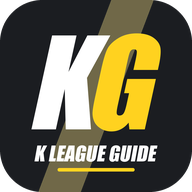
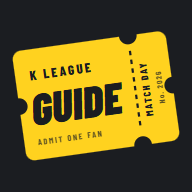
새 로고: 매치데이 티켓 — 헤더·파비콘·앱 아이콘
- 헤더의 공식 K리그 엠블럼 이미지를 자체 로고(BrandMark, 티켓 + KG)로 교체
- 앱 아이콘은 기울인 티켓(K LEAGUE GUIDE · ADMIT ONE FAN · MATCH DAY), 파비콘은 티켓 + KG
- 아이콘 생성 스크립트 scripts/make-brand-icons.mjs

diff --git a/src/App.tsx b/src/App.tsx
@@ -1,4 +1,5 @@
 import {useEffect,useState,type CSSProperties} from 'react';
+import BrandMark from './BrandMark';
 import {Goal,Info,Sparkles,LoaderCircle,RefreshCw} from 'lucide-react';
 import type {Dataset} from './types';
 import {loadSampleDataset} from './sampleApi';
@@ -10,7 +11,6 @@ import FirstVisit from './FirstVisit';
 import Sidebar from './Sidebar';
 import MyExtras from './MyExtras';
 import {TermsPage,PrivacyPage} from './Legal';
-import {withBase} from './base';
 import LiveScores from './LiveScores';
 import {RaceCenter,RaceBigMatches,RaceSimulator} from './RaceTabs';
 import PlayerRanks from './PlayerRanks';
@@ -47,7 +47,7 @@ function AppBody(){
  const dates=[...new Set(Object.values(current.sources).map(s=>s.asOf))].sort();
  const samplePage=page==='archive'||page==='match';
  const myKit=KITS[clubOf(user)??''],myInk=myKit?kitInk(myKit):null;
- return <div className={'app-shell '+(page==='landing'?'is-landing':'')+(myInk?' club-bg '+(myInk.dark?'club-dark':'club-light'):'')} style={myKit&&myInk?({'--club-main':myKit.base,'--kit-bg':kitBackground(myKit),'--on-club':myInk.ink} as CSSProperties):undefined}><a className="skip-link" href="#main" onClick={e=>{e.preventDefault();document.getElementById('main')?.focus()}}>본문으로 이동</a><header className="header"><div className="header-inner"><a className="brand" href="#/" aria-label="K LEAGUE GUIDE 홈"><img className="brand-emblem" src={withBase('/media/league/kleague-emblem.png')} alt=""/><span className="brand-word">K LEAGUE<b>GUIDE</b></span></a><MainNav active={active} teamId={contextTeam?.id}/><span className="season-tag"><i/>{samplePage?'2025 예시':current.season+' SEASON'}</span><AuthButton/></div></header>
+ return <div className={'app-shell '+(page==='landing'?'is-landing':'')+(myInk?' club-bg '+(myInk.dark?'club-dark':'club-light'):'')} style={myKit&&myInk?({'--club-main':myKit.base,'--kit-bg':kitBackground(myKit),'--on-club':myInk.ink} as CSSProperties):undefined}><a className="skip-link" href="#main" onClick={e=>{e.preventDefault();document.getElementById('main')?.focus()}}>본문으로 이동</a><header className="header"><div className="header-inner"><a className="brand" href="#/" aria-label="K LEAGUE GUIDE 홈"><BrandMark className="brand-emblem"/><span className="brand-word">K LEAGUE<b>GUIDE</b></span></a><MainNav active={active} teamId={contextTeam?.id}/><span className="season-tag"><i/>{samplePage?'2025 예시':current.season+' SEASON'}</span><AuthButton/></div></header>
  {samplePage&&<div className="demo-banner"><Info size={14}/><span>{samplePage?<><strong>SAMPLE EDITION · 2025</strong> · 기능 체험용 예시 데이터입니다.</>:<><strong>LIVE CENTER · PREVIEW</strong> · 실제 경기 연동 전 미리보기 화면입니다.</>}</span></div>}
  <div className="shell-body"><Sidebar teams={current.teams} standings={current.standings} activeTeam={page==='team'?param:undefined}/><main id="main" tabIndex={-1} className="container" data-core={page}>
  {page==='landing'&&<Landing data={data}/>}

diff --git a/src/BrandMark.tsx b/src/BrandMark.tsx
@@ -1,0 +1,28 @@
+// K LEAGUE GUIDE 로고: 매치데이 티켓 — "경기장에 가 보자"(직관으로 팬을 늘리는 사이트 목적).
+// full    : K LEAGUE · GUIDE · 절취선 · MATCH DAY / No. 2026 — 앱 아이콘·큰 화면용
+// compact : 티켓 + KG — 헤더·파비콘처럼 작은 크기용
+// 글자는 사이트가 불러오는 Barlow Condensed 를 쓴다(index.html). 아이콘 PNG 는 scripts/make-brand-icons.mjs 로 만든다.
+import {useId} from 'react';
+
+const FONT = "'Barlow Condensed','Arial Narrow',sans-serif";
+const INK = '#1b1d21', YELLOW = '#ffd21f';
+
+export default function BrandMark({variant = 'compact', className, title}: {variant?: 'full' | 'compact'; className?: string; title?: string}) {
+  const id = useId().replace(/:/g, '');
+  const a11y = title ? {role: 'img', 'aria-label': title} : {'aria-hidden': true as const};
+  if (variant === 'compact') return <svg className={className} viewBox="0 0 128 96" {...a11y}>
+    <defs><mask id={'tk' + id}><rect width="128" height="96" fill="#fff"/><circle cx="2" cy="48" r="11" fill="#000"/><circle cx="126" cy="48" r="11" fill="#000"/><circle cx="96" cy="4" r="7" fill="#000"/><circle cx="96" cy="92" r="7" fill="#000"/></mask></defs>
+    <rect x="2" y="4" width="124" height="88" rx="11" fill={YELLOW} mask={`url(#tk${id})`}/>
+    <path d="M96 18 V78" stroke={INK} strokeWidth="4" strokeDasharray="6 6" strokeLinecap="round"/>
+    <text x="50" y="69" textAnchor="middle" fontFamily={FONT} fontWeight="900" fontStyle="italic" fontSize="56" fill={INK}>KG</text>
+  </svg>;
+  return <svg className={className} viewBox="0 0 380 140" {...a11y}>
+    <defs><mask id={'tk' + id}><rect width="380" height="140" fill="#fff"/><circle cx="276" cy="10" r="14" fill="#000"/><circle cx="276" cy="130" r="14" fill="#000"/><circle cx="10" cy="70" r="12" fill="#000"/><circle cx="370" cy="70" r="12" fill="#000"/></mask></defs>
+    <rect x="10" y="10" width="360" height="120" rx="10" fill={YELLOW} mask={`url(#tk${id})`}/>
+    <path d="M276 30 V110" stroke={INK} strokeWidth="3" strokeDasharray="6 6"/>
+    <text x="40" y="52" fontFamily={FONT} fontWeight="800" fontSize="20" letterSpacing="4" fill={INK}>K LEAGUE</text>
+    <text x="38" y="106" fontFamily={FONT} fontWeight="900" fontStyle="italic" fontSize="62" fill={INK}>GUIDE</text>
+    <text transform="translate(306 70) rotate(-90)" textAnchor="middle" fontFamily={FONT} fontWeight="800" fontSize="15" letterSpacing="3" fill={INK}>MATCH DAY</text>
+    <text transform="translate(334 70) rotate(-90)" textAnchor="middle" fontFamily={FONT} fontWeight="700" fontSize="13" letterSpacing="2" fill={INK} opacity=".7">No. 2026</text>
+  </svg>;
+}

diff --git a/src/theme.css b/src/theme.css
@@ -9,7 +9,7 @@ body,.app-shell{background:var(--bg);color:var(--ink)}
 .app-shell .header,.app-shell.is-landing .header{position:sticky;inset:auto;top:0;z-index:30;background:var(--chrome);color:#fff;border:0;box-shadow:0 1px 0 #ffffff12}
 .app-shell .header-inner,.app-shell.is-landing .header-inner{max-width:none;border-bottom:0;min-height:68px;padding:0 28px}
 .app-shell .brand,.app-shell.is-landing .brand{display:flex;align-items:center;gap:11px;color:#fff;margin-bottom:0}
-.brand-emblem{height:40px;width:auto;background:#fff;border-radius:9px;padding:4px 5px;display:block}
+.brand-emblem{height:34px;width:auto;aspect-ratio:128/96;display:block;flex:0 0 auto}
 .brand-word{font-style:italic;font-weight:900;font-size:27px;line-height:1;letter-spacing:.3px;text-transform:uppercase;color:#fff;white-space:nowrap}
 .brand-word b{color:var(--accent);margin-left:7px;font-weight:900}
 .app-shell .header nav .nav-group,.app-shell .header nav .nav-group-wrap a.nav-group,.app-shell.is-landing .header nav .nav-group,.app-shell.is-landing .header nav .nav-group-wrap a.nav-group{color:#b9bec5;font-weight:700;text-transform:none}
@@ -127,7 +127,7 @@ body,.app-shell{background:var(--bg);color:var(--ink)}
 }
 @media(max-width:900px){
  .app-shell .header-inner,.app-shell.is-landing .header-inner{padding:12px 18px 0}
- .brand-word{font-size:23px}.brand-emblem{height:34px}
+ .brand-word{font-size:23px}.brand-emblem{height:30px}
  .app-shell .landing-hero{padding:40px 24px;min-height:440px}
  .app-shell .landing-features{grid-template-columns:1fr 1fr}
 }
